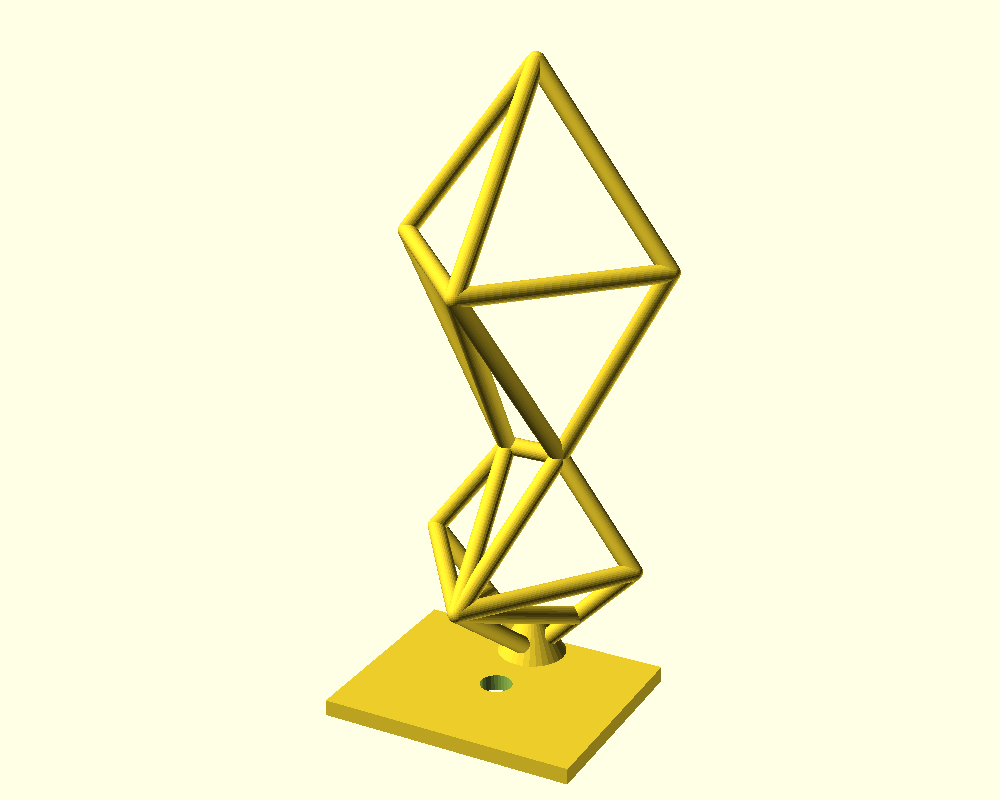
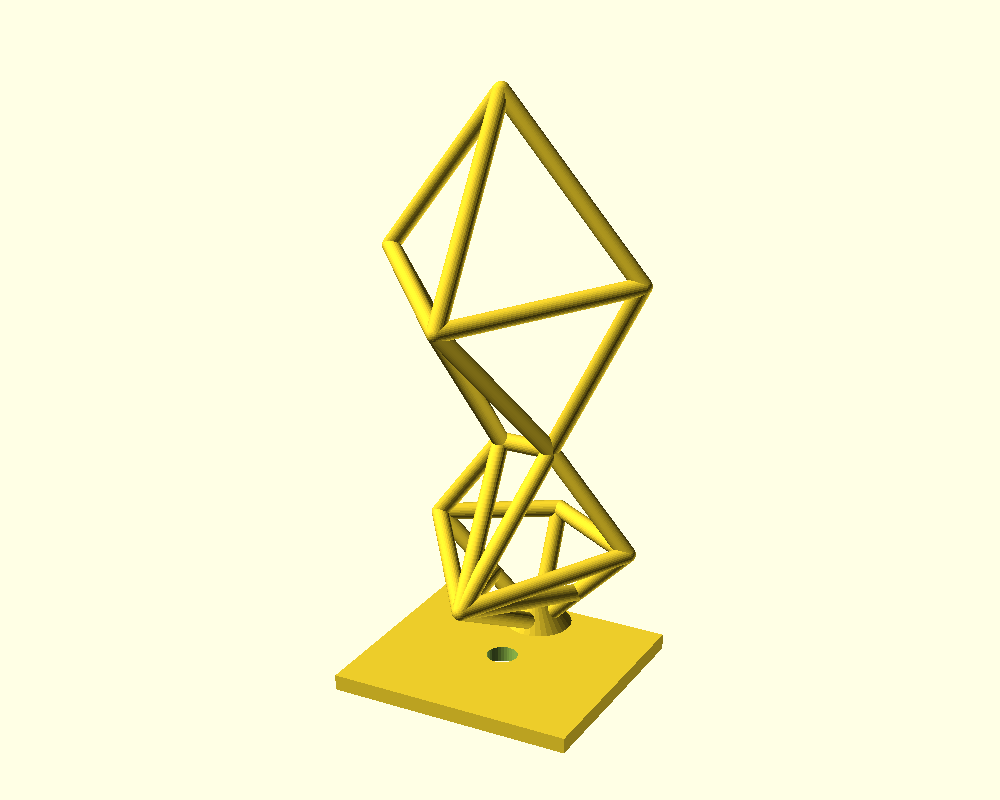
Rock cage back 8 degrees and add front scoop to catch the bulb
The whole cage now tilts backward about its base contact point so the
plant sits on an incline. The bottom section gains a forward-popping
scoop: bottom, left, and right corners of the lower diamond converge
on an apex 16mm past the front frame, catching the reclined plant's
base. Base plate deepened to 58mm to cover the tilted footprint.
STL re-exported and validated.

Claude-Session: https://claude.ai/code/session_01KA6Q5hMYxLc6YU5N6bdmxn

Changed region(s): [[0.31, 0.0625, 0.682, 1.0]]

diff --git a/models/air_plant_holder/README.md b/models/air_plant_holder/README.md
@@ -1,6 +1,6 @@
 # Air Plant Holder — Double-Diamond Wireframe Cage
 
-A geometric display stand for the tall Tillandsia (the leftmost plant, caput-medusae type). Two stacked diamonds accentuate the plant's height. The front face is a flat double-diamond wireframe; the back pops out — each diamond tapers to an apex vertex behind its widest point, so the side profile is a crystal-like zigzag rather than a flat plane. No solid faces anywhere.
+A geometric display stand for the tall Tillandsia (the leftmost plant, caput-medusae type). Two stacked diamonds accentuate the plant's height. The front face is a flat double-diamond wireframe; the back pops out — each diamond tapers to an apex vertex behind its widest point, so the side profile is a crystal-like zigzag rather than a flat plane. The whole cage rocks back 8° so the plant reclines, and a scoop cage pops out the front of the bottom section to catch the base of the plant. No solid faces anywhere.
 
 ![front](preview_front.png)
 
@@ -12,11 +12,12 @@ A geometric display stand for the tall Tillandsia (the leftmost plant, caput-med
 
 ## Model dimensions
 
-- Overall height: 152mm
-- Base plate: 64 × 52 × 4mm, flat for table placement, with an 8mm drainage hole under the bulb
-- Cage depth: ~38mm from front frame to back apexes
+- Overall height: ~152mm
+- Cage incline: 8° backward, pivoting at the base contact so the plant sits reclined
+- Base plate: 64 × 58 × 4mm, flat for table placement, with an 8mm drainage hole under the bulb
 - Struts: 4.4mm diameter round
 - Lower diamond: 54mm wide, with cradle ribs running back to its apex that support the bulb
+- Front scoop: the bottom section's corners converge on an apex 16mm in front of the front frame, catching the reclined bulb
 - Upper diamond: 68mm wide
 - Each diamond's four corners converge on a back apex vertex 22mm behind center — the popped-out crystal profile
 - Conical gusset reinforces the single bottom-vertex contact with the base
@@ -43,6 +44,8 @@ Key parameters at the top of `air_plant_holder_001.scad`:
 zT = 152;        // overall height
 w2 = 34;         // upper diamond half-width
 pop = 22;        // how far the back apexes pop out
+fpop = 16;       // how far the front scoop pops out
+tilt = 8;        // backward incline in degrees
 strut_r = 2.2;   // strut radius
 ```
 